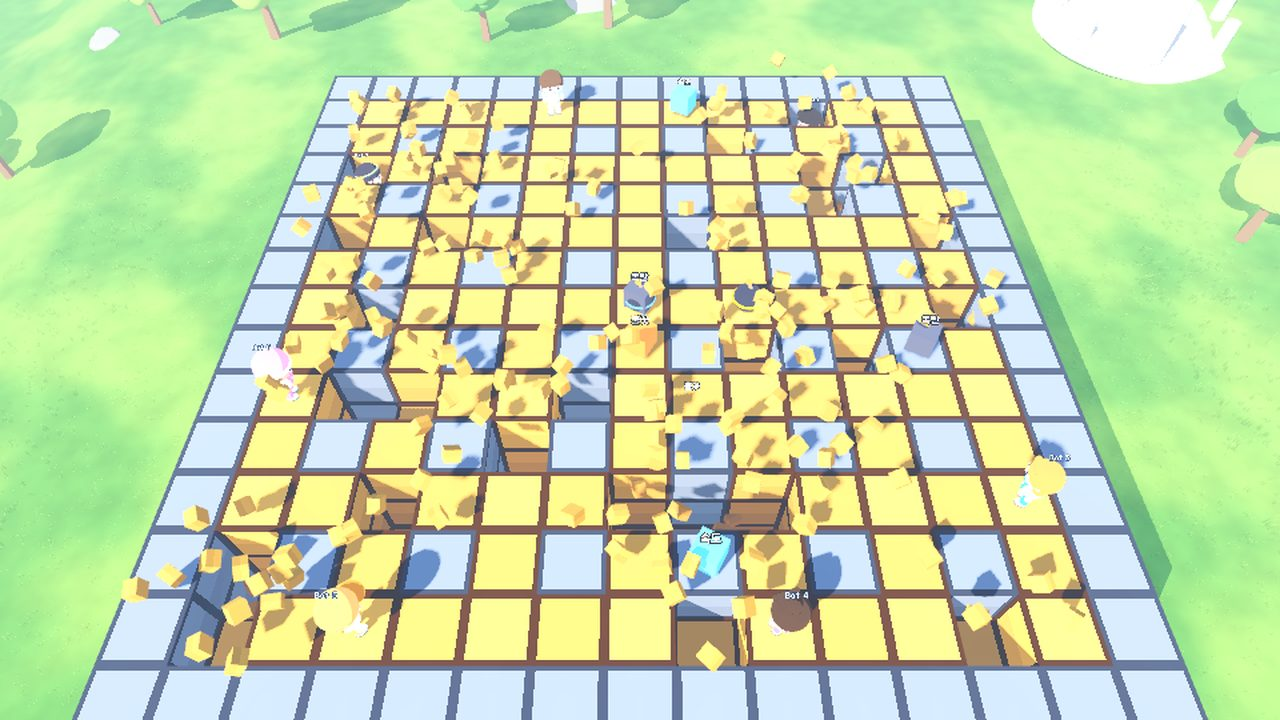
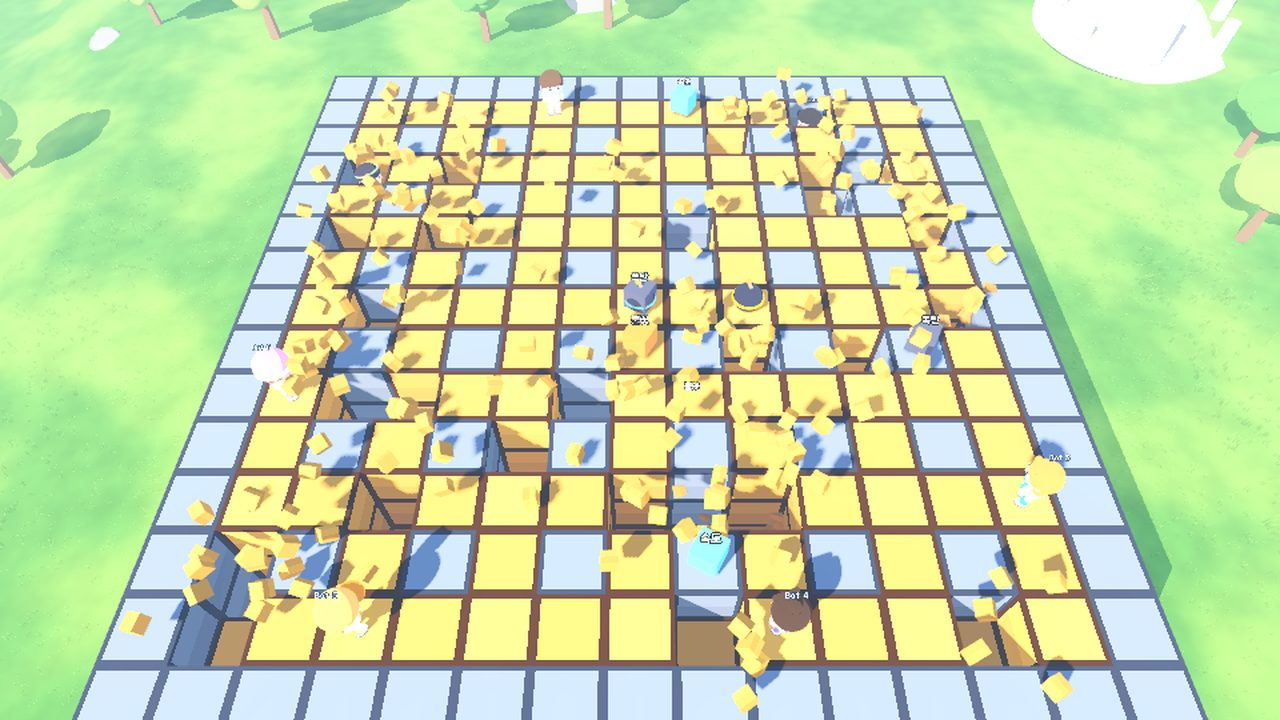
불러오는 중 표시 + 연쇄폭탄마 탭/차징·3x3 폭발 (0.18.0)
- 게임 시작·다음 라운드·혼자 연습으로 넘어갈 때 '게임 불러오는 중…', 경기 화면 준비 뒤 '다른 플레이어를 기다리는 중…' (loading_overlay.gd, loading_watch.gd)
- 연쇄폭탄마: 탭 = 발밑에 놓기, 차징 = 차징한 만큼 멀리·높이 던지기 (떨어질 칸·범위 표시)
- 폭발 범위 정사각형 반경 1(3x3), 불꽃 아이템마다 +1, 높이도 위아래 반경 층 (한 층 아래도 맞음)
- 점프 약 4.3m(블록 2층), 이동 7.2m/s(처음의 1.5배)
- 봇: 범위 안 상대에게 발밑 놓기, 차징 던지기
- 프로토콜 35

Claude-Session: https://claude.ai/code/session_013DmNHaQ6bvAeVXP2pzowqV

diff --git a/deploy/web-landing/about/index.html b/deploy/web-landing/about/index.html
@@ -296,17 +296,17 @@ footer a { color: var(--cream); }
           <h3 class="disp">연쇄폭탄마</h3>
           <p><span class="tag" style="background:#f26b33">2~12명</span><span class="tag" style="background:var(--blue)">개인전·팀전</span><span class="tag" style="background:#9a5bdb">전략</span></p>
           <ol class="pts">
-            <li><b class="disp">폭탄을 던져요</b> 평평하게 쌓인 블록 탑 위에서 시작! 꾹 누를수록 멀리 날아가요. 날아가는 폭탄에 맞으면 살짝 밀리고, 떨어진 폭탄은 곧 십자로 펑!</li>
+            <li><b class="disp">폭탄을 던져요</b> 평평하게 쌓인 블록 탑 위에서 시작! 톡 누르면 발밑에 놓고, 꾹 누를수록 멀리·높이 날아가요. 떨어진 폭탄은 곧 3×3 범위로 펑! 날아가는 폭탄에 맞으면 살짝 밀려요.</li>
             <li><b class="disp">무너지는 바닥</b> 터진 자리는 블록이 깎여 점점 낮아지고, 구멍이 뚫리면 아래는 용암! 다른 폭탄에 닿으면 연쇄 폭발.</li>
             <li><b class="disp">마지막까지 살아남기</b> 불길에 맞거나 용암에 떨어지면 탈락(내 폭탄·팀 폭탄도 조심). 탈락하면 유령이 되어 밖에서 폭탄을 던져요.</li>
           </ol>
           <details class="more"><summary class="disp">아이템과 작전 팁</summary>
           <ul class="itemlist">
-            <li><b>불꽃</b> 폭발 범위 +1칸 (최대 7)</li>
+            <li><b>불꽃</b> 폭발 범위가 3×3 → 5×5 → 7×7 … 로 넓어져요 (최대 9×9)</li>
             <li><b>폭탄</b> 한 번에 던질 수 있는 폭탄 +1개 (최대 6)</li>
             <li><b>속도</b> 이동 속도 +1단계 (최대 4)</li>
             <li><b>발밑 조심</b> 상대가 서 있는 블록을 깎아 구멍을 만들면 길이 끊겨요. 구멍 옆에서는 천천히!</li>
-            <li><b>높은 곳이 유리</b> 낮은 곳에서 터진 불길은 높은 블록에 막혀요. 블록 세 층까지 점프로 올라가요. 가장자리 밖으로 떨어져도 탈락!</li>
+            <li><b>높은 곳이 유리</b> 낮은 곳에서 터진 불길은 높은 블록에 막혀요. 블록 두 층까지 점프로 올라가요. 한 층 아래에 있어도 범위 안이면 맞아요! 가장자리 밖으로 떨어져도 탈락!</li>
           </ul></details>
         </div>
       </article>
@@ -378,7 +378,7 @@ footer a { color: var(--cream); }
           <h3 class="disp" style="margin:0 0 10px;font-size:24px">PC</h3>
           <table class="keys">
             <tr><th class="disp">이동</th><td><kbd>W</kbd> <kbd>A</kbd> <kbd>S</kbd> <kbd>D</kbd></td></tr>
-            <tr><th class="disp">폭탄 던지기</th><td>좌클릭 또는 <kbd>E</kbd> 를 누르고 있다가 떼기 (오래 누를수록 멀리)</td></tr>
+            <tr><th class="disp">폭탄</th><td>좌클릭 또는 <kbd>E</kbd> — 탭 = 발밑에 놓기, 누르고 있다가 떼기 = 멀리·높이 던지기</td></tr>
             <tr><th class="disp">점프</th><td><kbd>Space</kbd></td></tr>
             <tr><th class="disp">카메라</th><td>마우스로 돌리기 · 휠로 당기기/밀기 (기본은 멀리서 내려다봄)</td></tr>
             <tr><th class="disp">유령</th><td>이동 키로 테두리를 돌고 좌클릭/<kbd>E</kbd>로 던지기</td></tr>
@@ -388,7 +388,7 @@ footer a { color: var(--cream); }
           <h3 class="disp" style="margin:0 0 10px;font-size:24px">모바일</h3>
           <table class="keys">
             <tr><th class="disp">이동</th><td>화면 왼쪽 스틱</td></tr>
-            <tr><th class="disp">폭탄 던지기</th><td>던지기 버튼을 누르고 있다가 떼기</td></tr>
+            <tr><th class="disp">폭탄</th><td>던지기 버튼 — 탭 = 발밑에 놓기, 누르고 있다가 떼기 = 던지기</td></tr>
             <tr><th class="disp">점프</th><td>점프 버튼</td></tr>
             <tr><th class="disp">카메라</th><td>화면 오른쪽 드래그</td></tr>
             <tr><th class="disp">유령</th><td>스틱으로 테두리를 돌고 던지기 버튼</td></tr>

diff --git a/README.md b/README.md
@@ -103,6 +103,10 @@ const SERVER_LIST := [
 - 서버 규칙: `scripts/core/series.gd`, 결과 화면: `scripts/ui/series_panel.gd`
 - 새 게임은 경기가 끝날 때 서버에서 `report_result(placements)` 를 부르기만 하면 된다 (`scripts/core/party_game.gd`)
 
+### 불러오는 중 표시
+- 게임 시작을 누르거나(방장), 서버가 경기 시작을 알리거나, 다음 라운드·혼자 연습으로 넘어갈 때 `scripts/ui/loading_overlay.gd` 가 화면을 살짝 어둡게 하고 가운데에 도는 표시와 "게임 불러오는 중…" 을 띄운다. 씬을 바꾸기 전에 두 프레임 기다려 표시가 먼저 그려지게 함
+- 경기 화면에서는 `scripts/ui/loading_watch.gd`(PartyGame.add_common_ui 가 붙임)가 이어받아, 화면 준비가 끝나면(loaded 보냄) "다른 플레이어를 기다리는 중…", 서버의 시작 신호가 오면 닫는다. 메뉴에서 10초 넘게 그대로면(시작 거절 등) 스스로 닫힘
+
 ### 팀전
 - 방장이 대기룸에서 **개인전(1:1:1…) / 2팀전 / 3팀전 / 4팀전** 을 고른다. 팀을 정하면 사람들이 팀에 고르게 나뉘고, 각자 카드의 "→ 팀" 버튼으로 바꾼다 (방장은 다른 사람도 옮길 수 있음)
 - 팀끼리 인원이 맞아야 시작: 봇 채우기를 끄면 팀별 사람 수가 같아야 하고, 켜면 최대 인원이 팀 수로 나누어떨어져야 하며 빈자리는 봇이 채운다
@@ -476,22 +480,22 @@ DNS에 `spwsv.cloudish.cloud` 레코드가 없다면(와일드카드 미사용) 
 격자의 칸마다 2m 정육면체 블록이 4층 쌓인 평평한 탑 위에서 폭탄을 **포물선으로 던져** 블록을 깎고 상대를 맞히는 게임. 터질수록 지형이 낮아지고 구멍이 뚫려 아래 용암이 드러난다. 전체적으로 빠르게(이동·폭탄·폭발) 진행된다.
 
 ## 조작
-- 이동: WASD·스틱 (카메라 기준). Space(모바일 '점프' 버튼) = 점프 — 약 6.5m, 블록 3층까지 한 번에 오름. 이동 속도 9.6m/s(다른 게임의 2배 가까이), 캐릭터는 1.3배 크기(`Fighter.body_scale`)
-- **던지기: 좌클릭/E (모바일 '던지기' 버튼) 를 누르고 있다가 떼기** — 누르는 동안 떨어질 칸에 노란 고리가 보이고, 누른 시간만큼 멀리(2~18m, 0.7초 누르면 최대) 바라보는 방향으로 날아감 (`Fighter.throw_mode` → `on_throw`). 밀치기는 없음
+- 이동: WASD·스틱 (카메라 기준). Space(모바일 '점프' 버튼) = 점프 — 약 4.3m, 블록 2층까지 한 번에 오름. 이동 속도 7.2m/s, 캐릭터는 1.3배 크기(`Fighter.body_scale`)
+- **폭탄: 좌클릭/E (모바일 '던지기' 버튼)** — 짧게 탭하면 발밑에 놓기, 누르고 있다가 떼면(차징) 차징한 만큼 멀리(2~18m)·높이(포물선 꼭대기 +1.5~7m) 바라보는 방향으로 던지기. 차징 중엔 떨어질 칸(노란 고리)과 터질 범위(노란 사각형)가 보인다 (`Fighter.throw_mode` → `on_throw(f, -1 또는 0~1)`). 밀치기는 없음
 - 카메라: 기본은 높이서 멀리 내려다보는 시점(내 캐릭터와 경기장 가운데 사이를 따라감). 마우스·터치 드래그로 돌리고, 마우스 휠로 3~48m 당기거나 밀기
 
 ## 규칙 (`games/bomber/bomber_game.gd`, 격자 `board.gd`)
 - 경기장은 정사각형, 인원에 따라: 4명 이하 11×11 / 6명 13×13 / 10명 15×15 / 12명 17×17 (칸 = 블록 한 변 2m). 처음엔 모든 칸이 블록 4층(`LAYERS`)으로 평평하다. 블록마다 모서리에 진한 테두리 선(`shaders/block.gdshader`)과 체크무늬 색으로 한 칸씩 구분된다. 출발 칸은 안쪽 테두리 줄에 고르게
-- 부서지지 않는 블록(회색 돌): 테두리와 (짝수, 짝수) 칸. 다른 블록과 높이가 같아 위에 설 수 있고, 높이가 같은 폭발은 그 칸까지 닿고 멈춘다(그 위에 선 사람도 맞음). 경기장 가장자리에 벽이 없어서 밖으로 떨어져도 탈락
-- 폭탄: 던진 자리에서 포물선으로 날아가(0.18초 + 거리 비례) 떨어진 칸 꼭대기에 놓이고, 1.6초 뒤(`LAND_FUSE`) 십자로 터짐. 날아가는 폭탄에 맞은 사람은 날아가던 쪽으로 살짝 밀려남(`BOMB_HIT_PUSH`, 던진 사람 자신은 제외). 범위 = 불꽃 수. 폭탄 칸보다 높은 칸은 벽처럼 맞고 멈춘다. 다른 폭탄에 닿으면 그 폭탄도 바로 터짐(연쇄, 높이 차 1층 이내). 구멍에 떨어진 폭탄은 용암에 빠져 사라짐
-- 블록 깎기: 불길이 지나간 칸은 1층, 폭탄이 있던 칸은 2층이 깎인다 (폭발 층보다 2층 넘게 낮은 칸은 불길이 위로 지나가 그대로). 높이 0 = 구멍
-- **탈락**: 불길에 맞음 (불길 칸 안 + 폭발 층 꼭대기 기준 아래 1.6m ~ 위 3.2m, `FLAME_TIME` 0.4초 동안) 또는 용암·경기장 밖으로 떨어짐. 내 폭탄·아군 폭탄에도 맞는다. 마지막 1명(팀전은 1팀)이 남으면 승리. 경기장은 좁아지지 않고, 제한 시간 150초가 끝나면 남은 사람끼리 공동 1등
-- 아이템: 블록이 깎인 칸에서 14% 확률로 나옴 — 불꽃(범위 +1, 최대 7) / 폭탄(동시에 던질 수 있는 개수 +1, 최대 6) / 속도(+1.2m/s, 최대 3개). 시작은 폭탄 1·불꽃 2·속도 9.6m/s. 같은 높이 근처에서 터진 불길에 타서 없어짐
+- 부서지지 않는 블록(회색 돌): 테두리와 (짝수, 짝수) 칸. 다른 블록과 높이가 같아 위에 설 수 있고, 폭발에 안 깎인다(그 위에 선 사람은 범위 안이면 맞음). 경기장 가장자리에 벽이 없어서 밖으로 떨어져도 탈락
+- 폭탄: 던진 자리에서 포물선으로 날아가(0.18초 + 거리 비례) 떨어진 칸 꼭대기에 놓이고, 1.6초 뒤(`LAND_FUSE`) 터짐. 날아가는 폭탄에 맞은 사람은 날아가던 쪽으로 살짝 밀려남(`BOMB_HIT_PUSH`, 던진 사람 자신은 제외). **범위는 폭탄을 가운데로 한 정사각형**: 기본 반경 1 = 3×3칸, 불꽃 아이템마다 반경 +1(5×5, 7×7 …). 높이도 위아래 반경만큼 — 한 층 아래 칸에 있어도 범위 안이면 맞는다. 범위 안의 다른 폭탄도 바로 터짐(연쇄). 구멍에 떨어진 폭탄은 용암에 빠져 사라짐
+- 블록 깎기: 범위 안 부서지는 블록이 위아래 반경 층 안까지 쌓여 있으면 그 블록들이 사라져 높이가 (폭발 층 − 반경)이 된다 (평평한 곳이면 반경만큼 깎임, `Board.height_after`). 훨씬 높은 탑·낮은 칸은 그대로. 높이 0 = 구멍
+- **탈락**: 불길에 맞음 (범위 칸 안 + 폭발 층 꼭대기 기준 위아래 반경×2m 안(여유 아래 0.3m·위 1m), `FLAME_TIME` 0.4초 동안) 또는 용암·경기장 밖으로 떨어짐. 내 폭탄·아군 폭탄에도 맞는다. 마지막 1명(팀전은 1팀)이 남으면 승리. 경기장은 좁아지지 않고, 제한 시간 150초가 끝나면 남은 사람끼리 공동 1등
+- 아이템: 블록이 깎인 칸에서 14% 확률로 나옴 — 불꽃(반경 +1, 최대 4) / 폭탄(동시에 던질 수 있는 개수 +1, 최대 6) / 속도(+0.9m/s, 최대 3개). 시작은 폭탄 1·불꽃 1(3×3)·속도 7.2m/s. 같은 높이 근처에서 터진 불길에 타서 없어짐
 - 사람끼리는 서로 통과 (좁은 길에서 마주쳐 막히지 않게)
-- **유령**: 탈락 1초 뒤 경기장 바깥 테두리 위에 뜬 유령이 된다. 이동 키로 테두리를 돌고, 던지기 키(또는 점프 키)로 안쪽에 폭탄을 던진다(불꽃 2, 5초에 1개, 떨어질 칸은 서 있는 변에서 안쪽으로 3·2·4·1·5번째 서 있을 수 있는 칸 순). 유령은 맞지 않고, 유령 폭탄도 누구든 맞힌다
+- **유령**: 탈락 1초 뒤 경기장 바깥 테두리 위에 뜬 유령이 된다. 이동 키로 테두리를 돌고, 던지기 키(또는 점프 키)로 안쪽에 폭탄을 던진다(반경 1, 5초에 1개, 떨어질 칸은 서 있는 변에서 안쪽으로 3·2·4·1·5번째 서 있을 수 있는 칸 순). 유령은 맞지 않고, 유령 폭탄도 누구든 맞힌다
 - 순위: 살아남은 사람 → 늦게 탈락한 순. 팀전은 살아남은 팀원 수 → 마지막 팀원이 탈락한 시각
-- 온라인: 클라이언트는 `["throw", 떨어질 칸, 던진 위치]`·`["gthrow", 유령 위치]`·`["gh", 유령 위치]` 를 보내고, 서버가 `bomb`(칸·던진 위치·떨어지는 시각·터지는 시각)·`sink`·`boom`(터진 폭탄들, 불길 묶음[칸·주인·높이], 깎인 칸·층 수, 탄 아이템, 새 아이템)·`item`·`out`·`ghs`(유령 위치 10Hz) 를 알린다. 탈락 판정은 "그 시각의 내 위치"로 (내 화면에서 피했으면 피한 것)
-- 봇 (`bot_brain.gd`): 0.2~0.4초마다 생각. 지금 칸이 곧 터질 자리면 안전한 칸으로 도망(구멍은 피하고 3층까지는 점프로 오름, 지나가는 칸의 불길 시각까지 따짐), 상대가 3~18m 안이면 몸을 돌려 거리만큼 눌렀다 던짐(내가 맞을 자리면 안 던짐, 실력이 낮으면 조금 빗나감), 가까운 아이템 줍기, 상대에게서 3~5칸 떨어진 자리로 이동. 봇 유령은 가장 가까운 상대 쪽 테두리로 가서 던짐
+- 온라인: 클라이언트는 `["throw", 떨어질 칸, 던진 위치, 던진 높이]`·`["gthrow", 유령 위치]`·`["gh", 유령 위치]` 를 보내고, 서버가 `bomb`(칸·던진 위치·떨어지는 시각·터지는 시각·던진 높이)·`sink`·`boom`(터진 폭탄들, 불길 묶음[칸·주인·높이·반경], 깎인 칸·층 수, 탄 아이템, 새 아이템)·`item`·`out`·`ghs`(유령 위치 10Hz) 를 알린다. 탈락 판정은 "그 시각의 내 위치"로 (내 화면에서 피했으면 피한 것)
+- 봇 (`bot_brain.gd`): 0.2~0.4초마다 생각. 지금 칸이 곧 터질 자리면 안전한 칸으로 도망(구멍은 피하고 2층까지는 점프로 오름, 지나가는 칸의 불길 시각까지 따짐), 상대가 4.5~18m 안이면 몸을 돌려 거리만큼 차징했다 던짐(내가 맞을 자리면 안 던짐, 실력이 낮으면 조금 빗나감), 상대가 내 폭발 범위 안이고 도망칠 길이 있으면 발밑에 놓고 도망, 가까운 아이템 줍기, 상대에게서 3~5칸 떨어진 자리로 이동. 봇 유령은 가장 가까운 상대 쪽 테두리로 가서 던짐
 - 화면 (`hud.gd`): 위 = 남은 시간·생존(팀전은 팀별), 아래 = 내 폭탄·불꽃·속도, 탈락하면 유령 안내와 다시 던질 때까지 남은 시간, 오른쪽 아래 = 작은 지도(높이를 색으로, 구멍은 주황, 폭탄·불길·사람)
 - 효과음: `tools/audio/gen_bomber.py` → `audio/sfx/{bomb_place,boom,kick,crate_break,ghost_throw}.wav` (던질 때 bomb_place, 떨어질 때 kick)
 - 경기장 바닥(용암 판)은 땅보다 0.45m 솟아 있음(`FLOOR_LIFT`) — 짧게 깎인 풀이 뚫고 보이지 않게. 블록 충돌은 8번 층(카메라 팔에 걸리지 않게). `module.gd` 의 `arena_half = 26`
